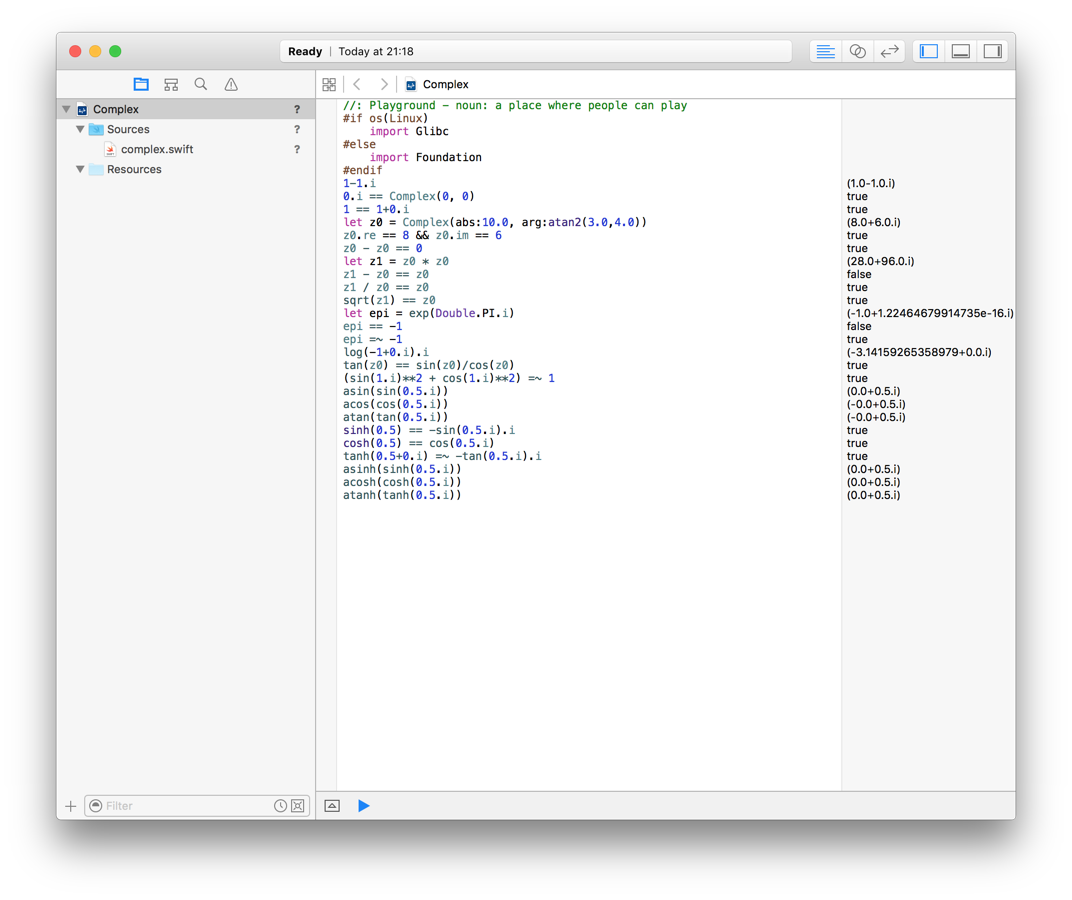
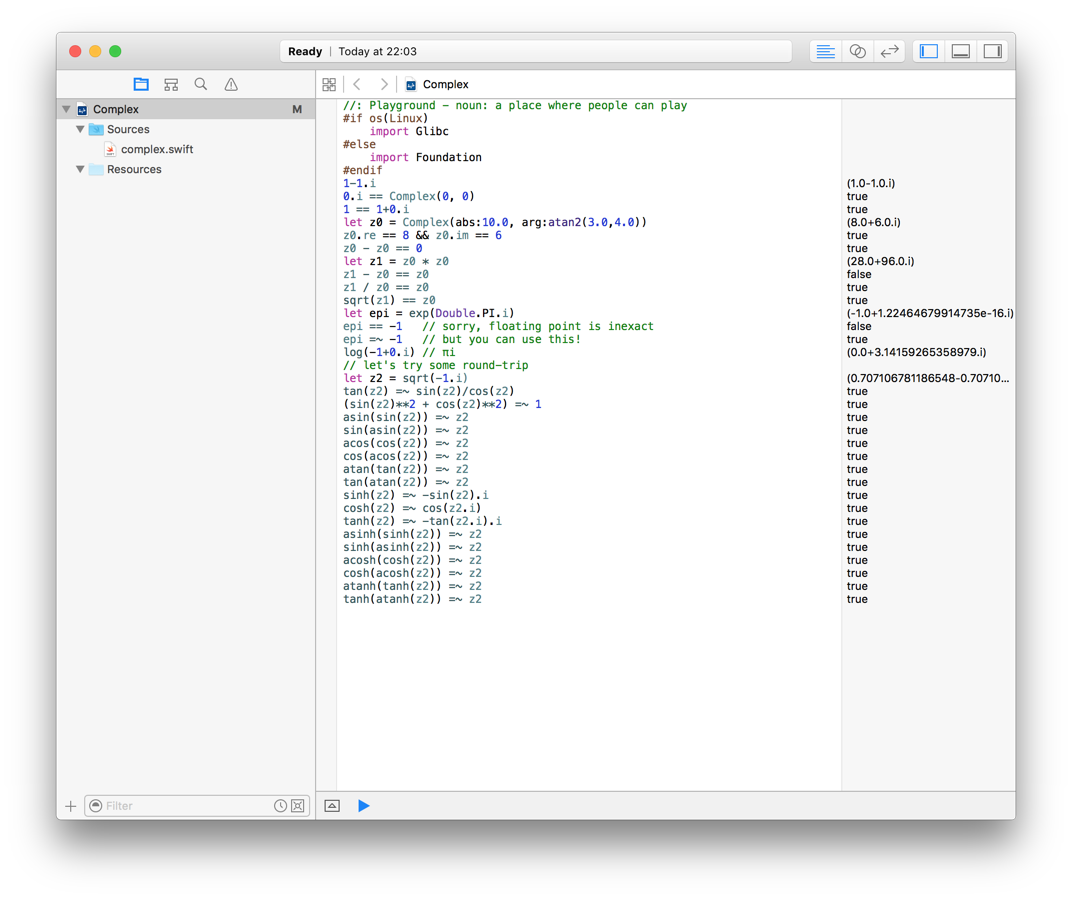
update playground

diff --git a/Complex.playground/Contents.swift b/Complex.playground/Contents.swift
@@ -18,15 +18,22 @@ let epi = exp(Double.PI.i)
 epi == -1   // sorry, floating point is inexact
 epi =~ -1   // but you can use this!
 log(-1+0.i) // πi
+// let's try some round-trip
 let z2 = sqrt(-1.i)
-tan(z2) == sin(z2)/cos(z2)
+tan(z2) =~ sin(z2)/cos(z2)
 (sin(z2)**2 + cos(z2)**2) =~ 1
 asin(sin(z2)) =~ z2
+sin(asin(z2)) =~ z2
 acos(cos(z2)) =~ z2
+cos(acos(z2)) =~ z2
 atan(tan(z2)) =~ z2
-sinh(z2) == -sin(z2).i
-cosh(z2) == cos(z2.i)
+tan(atan(z2)) =~ z2
+sinh(z2) =~ -sin(z2).i
+cosh(z2) =~ cos(z2.i)
 tanh(z2) =~ -tan(z2.i).i
 asinh(sinh(z2)) =~ z2
+sinh(asinh(z2)) =~ z2
 acosh(cosh(z2)) =~ z2
+cosh(acosh(z2)) =~ z2
 atanh(tanh(z2)) =~ z2
+tanh(atanh(z2)) =~ z2
